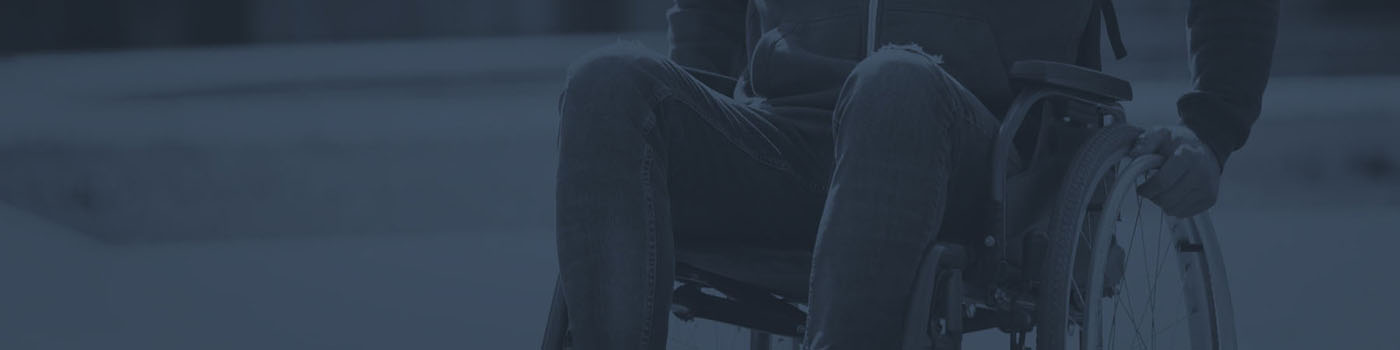
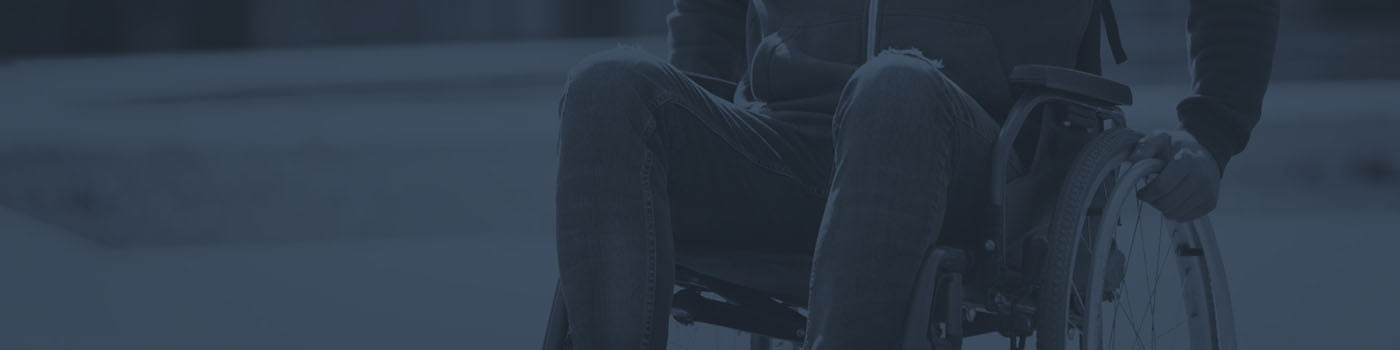
removed serving of the webp hero images, image quality loss was too noticeable on desktop versions

diff --git a/layouts/partials/hero.html b/layouts/partials/hero.html
@@ -1,7 +1,7 @@
 {{ $heroClass := lower .Page.Title }}
 <div class="short-hero {{ anchorize $heroClass }}-hero">
   <picture>
-    <source sizes="100vw" srcset="{{ .Site.BaseURL }}images/background-images/{{ anchorize $heroClass }}-hero-600.webp 500w, {{ .Site.BaseURL }}images/background-images/{{ anchorize $heroClass }}-hero-1000.webp 800w, {{ .Site.BaseURL }}images/background-images/{{ anchorize $heroClass }}-hero-1400.webp 1200w, {{ .Site.BaseURL }}images/background-images/{{ anchorize $heroClass }}-hero-1800.webp 1600w" type="image/webp" >
+    <!-- <source sizes="100vw" srcset="{{ .Site.BaseURL }}images/background-images/{{ anchorize $heroClass }}-hero-600.webp 500w, {{ .Site.BaseURL }}images/background-images/{{ anchorize $heroClass }}-hero-1000.webp 800w, {{ .Site.BaseURL }}images/background-images/{{ anchorize $heroClass }}-hero-1400.webp 1200w, {{ .Site.BaseURL }}images/background-images/{{ anchorize $heroClass }}-hero-1800.webp 1600w" type="image/webp" > -->
     <source sizes="100vw" srcset="{{ .Site.BaseURL }}images/background-images/{{ anchorize $heroClass }}-hero-600.jpg 500w, {{ .Site.BaseURL }}images/background-images/{{ anchorize $heroClass }}-hero-1000.jpg 800w, {{ .Site.BaseURL }}images/background-images/{{ anchorize $heroClass }}-hero-1400.jpg 1200w, {{ .Site.BaseURL }}images/background-images/{{ anchorize $heroClass }}-hero-1800.jpg 1600w" type="image/jpeg" > 
     <img src="{{ .Site.BaseURL }}images/background-images/{{ anchorize $heroClass }}-hero-1800.jpg" alt="">
   </picture>

diff --git a/assets/scss/pages/_home.scss b/assets/scss/pages/_home.scss
@@ -38,7 +38,7 @@
   }
 }
 .cta {
-  background-image: url("/images/CorHome-CTA-optimized.jpg");
+  background-image: url("/images/background-images/CorHome-CTA-optimized.jpg");
   background-size: cover;
   background-position: center;
   background-repeat: no-repeat;
